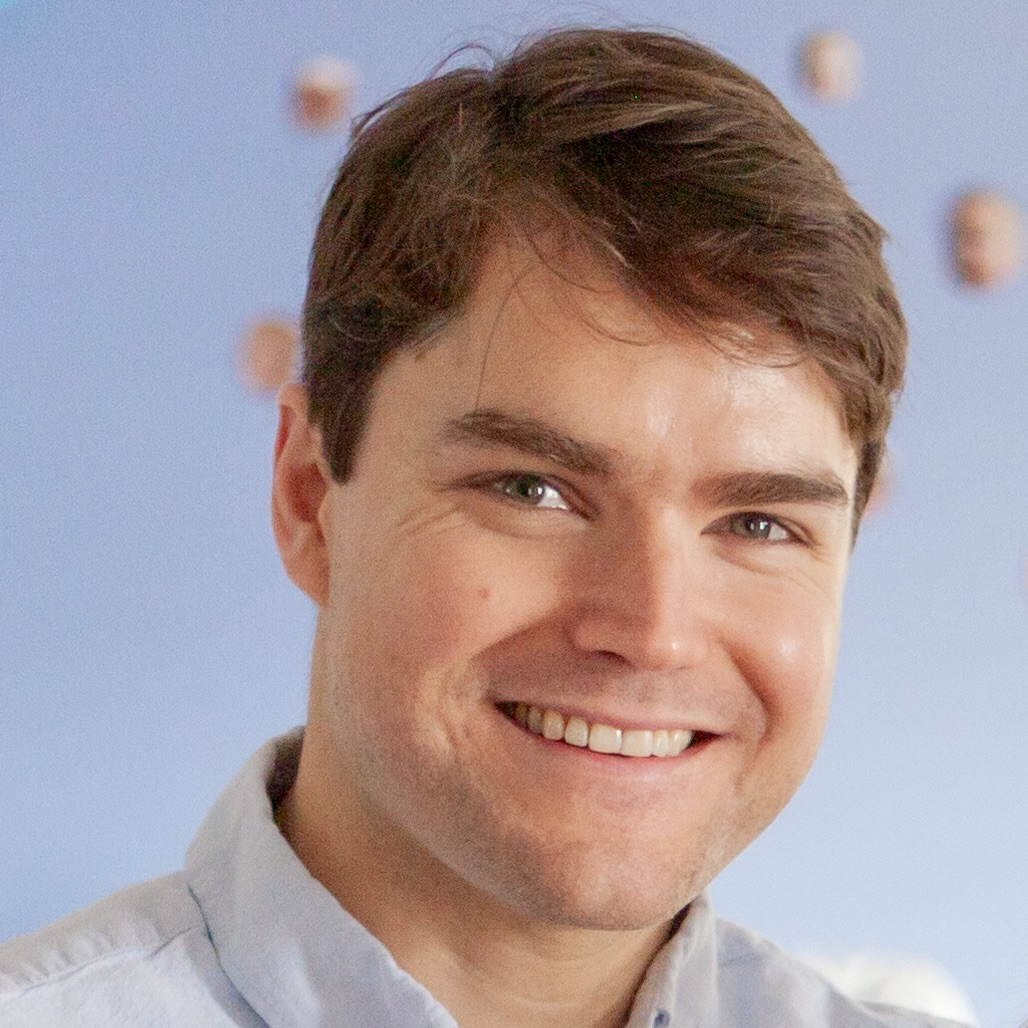
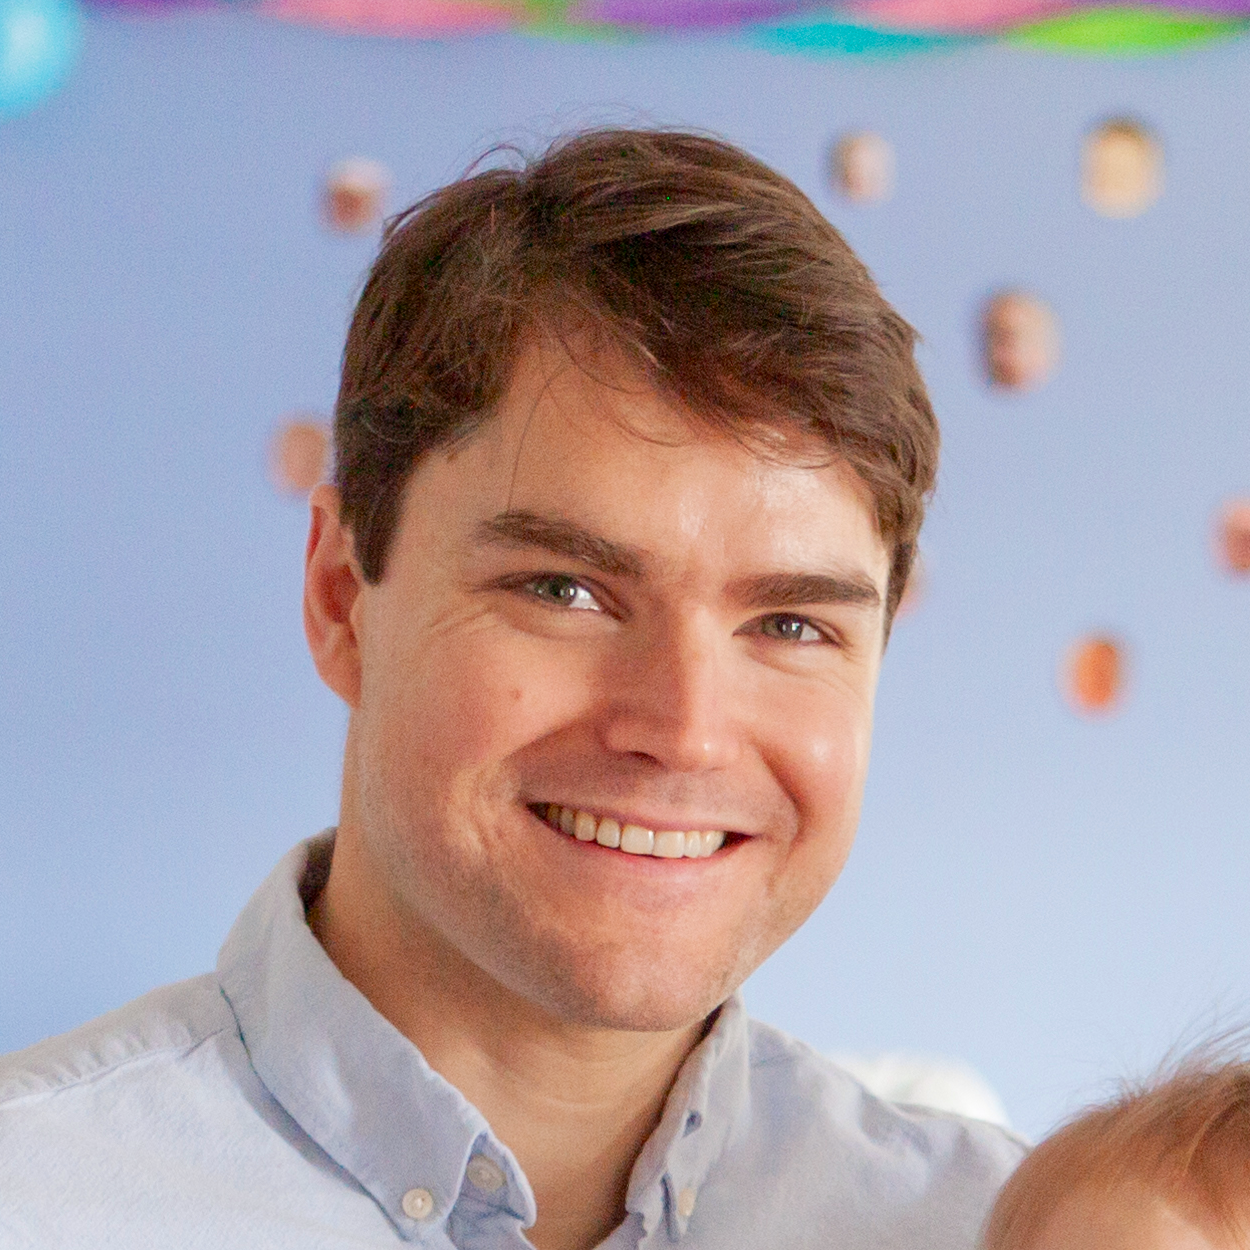
Fix headshot

diff --git a/src/components/Hero.tsx b/src/components/Hero.tsx
@@ -7,16 +7,21 @@ const Hero = () => {
       <div className="container mx-auto px-6">
         <div className="max-w-4xl mx-auto">
           <div className="flex flex-col md:flex-row items-center gap-12 mb-12">
-            <div className="md:w-1/3">
-              <div className="relative">
-                <div className="w-48 h-48 md:w-64 md:h-64 rounded-full overflow-hidden border-4 border-white dark:border-dark-card shadow-xl">
-                  <img
-                    src="/headshot.png"
-                    alt="Camden Webster"
-                    className="w-full h-full object-cover"
-                  />
-                </div>
-                <div className="absolute inset-0 rounded-full ring-2 ring-primary-500 dark:ring-primary-400 ring-offset-4 ring-offset-white dark:ring-offset-dark-bg"></div>
+            <div className="md:w-1/3 flex justify-center">
+              {/* New approach with a single container */}
+              <div className="w-48 h-48 md:w-64 md:h-64 rounded-full relative">
+                {/* Image container */}
+                <img
+                  src="/headshot.png"
+                  alt="Camden Webster"
+                  className="w-full h-full object-cover rounded-full border-4 border-white dark:border-dark-card shadow-xl"
+                  onError={(e) => {
+                    console.error('Image failed to load');
+                    e.currentTarget.style.display = 'none';
+                  }}
+                />
+                {/* Outer ring */}
+                <div className="absolute inset-0 rounded-full ring-2 ring-primary-500 dark:ring-primary-400 ring-offset-4 ring-offset-white dark:ring-offset-dark-bg pointer-events-none"></div>
               </div>
             </div>
             <div className="md:w-2/3 text-center md:text-left">

diff --git a/README.md b/README.md
@@ -1,0 +1,5 @@
+# Camden Webster Portfolio Website
+## Running the Site
+```shell
+npm install && npm run dev
+```
